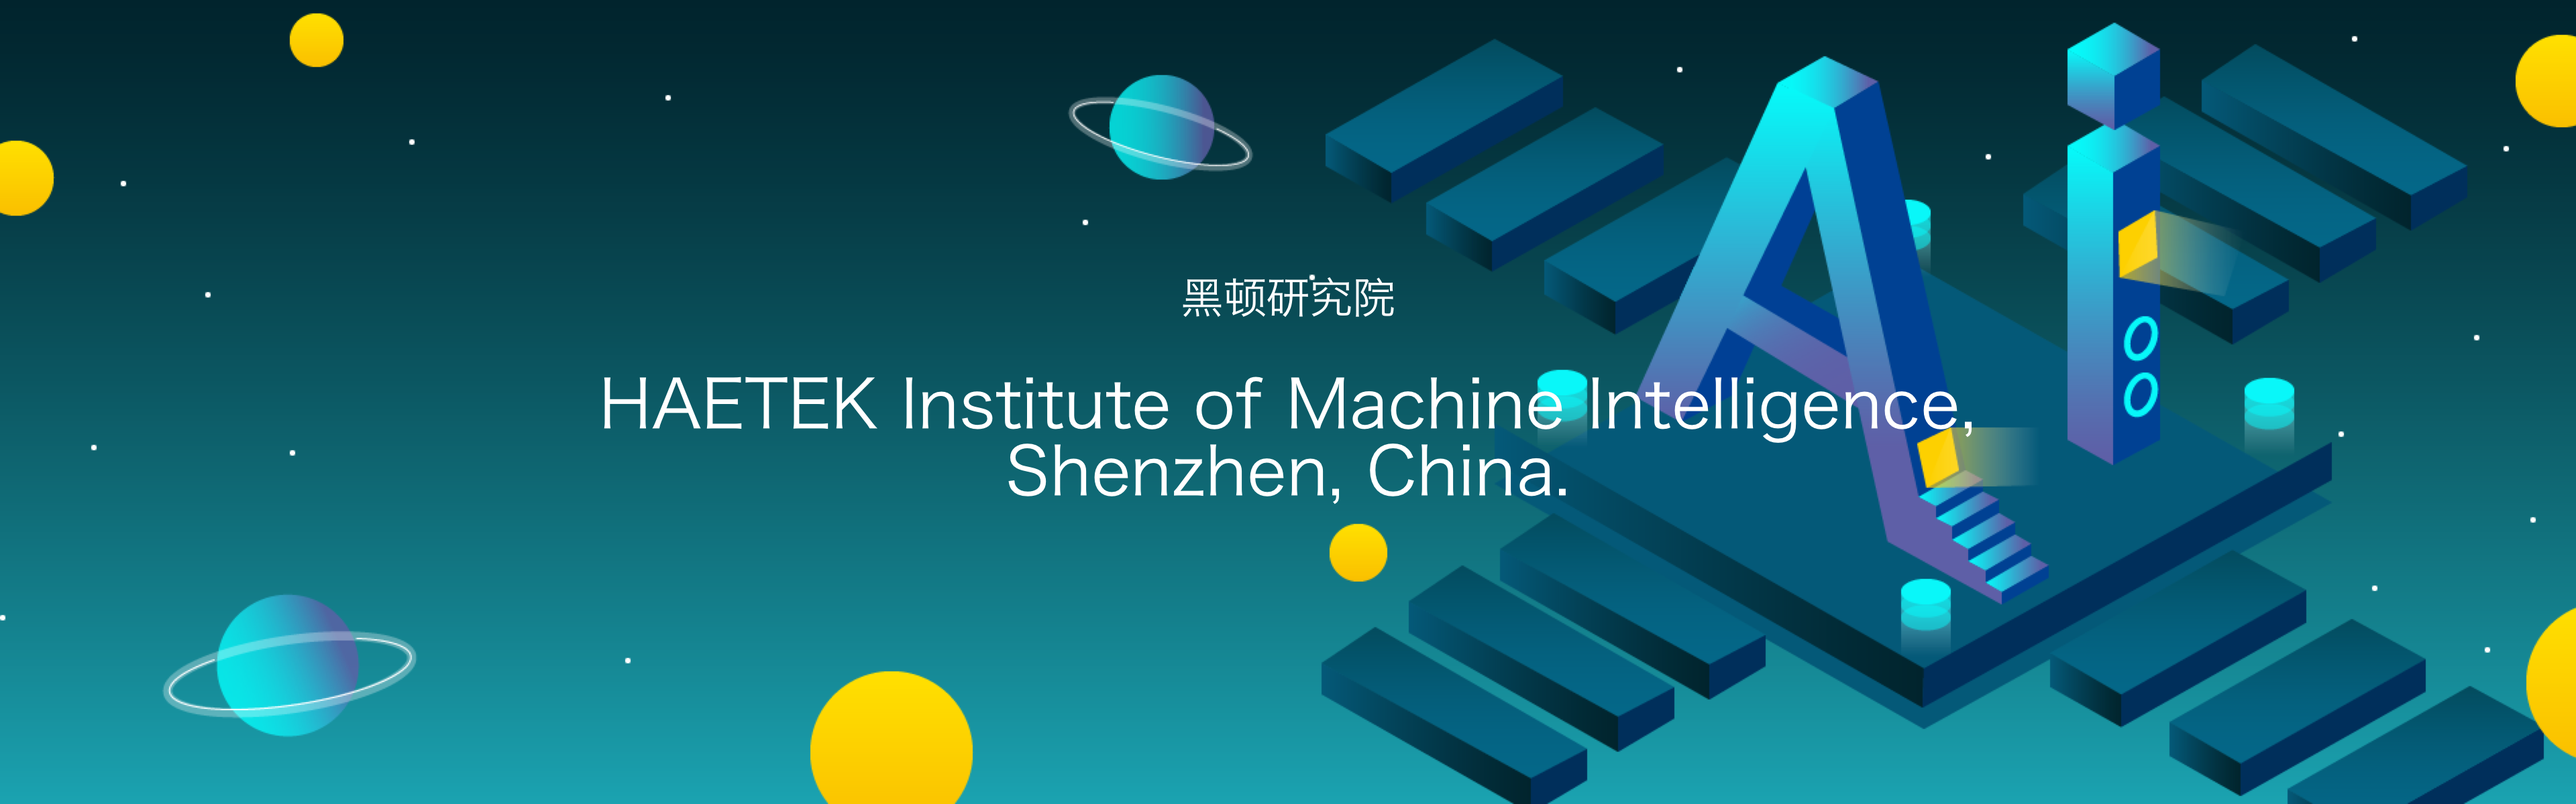
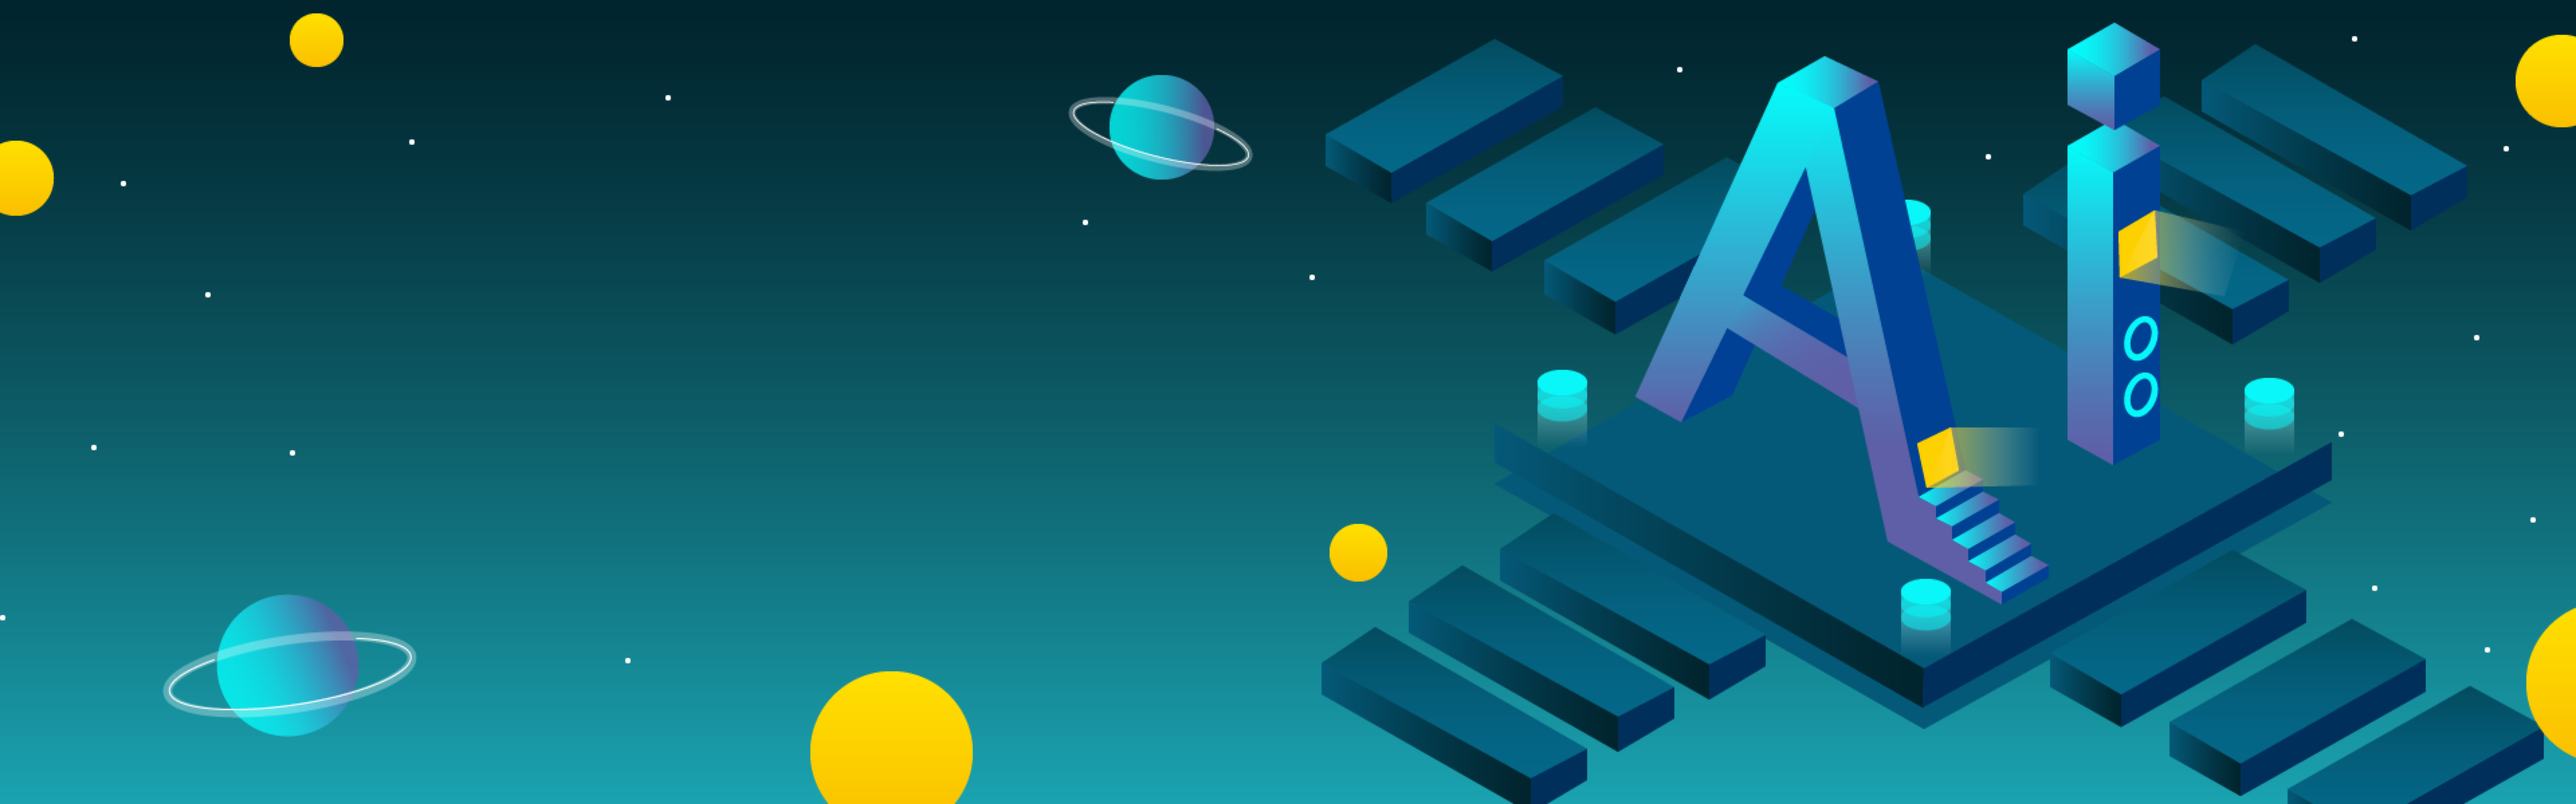
Modified: college page
1. add banner title
2. modified footer list
3. replace banner image
4. mofified background content

Changed region(s): [[0.2188, 0.4625, 0.7812, 0.6167], [0.4375, 0.3392, 0.5312, 0.4008]]

diff --git a/src/templates/college-page.js b/src/templates/college-page.js
@@ -5,8 +5,8 @@ import Layout from "../components/Layout";
 import StudyDirection from "../components/StudyDirection";
 
 const BackgroundInfo = ({ heading = "", bakPara = [] }) => (
-  <div className="columns">
-    <div className="column is-10 is-offset-1 has-text-centered">
+  <div className="columns is-centered">
+    <div className="column is-11 has-text-centered">
       <h3 className=" is-size-3">{heading}</h3>
       <br />
       <div className="is-size-6">
@@ -31,7 +31,21 @@ const CollegeTemplate = ({ image, background, direction }) => {
           })`,
           backgroundSize: "cover"
         }}
-      />
+      >
+        <div className="has-text-centered" style={{ lineHeight: 3 }}>
+          <h2 className="has-text-white is-size-3 is-size-4-mobile">
+            黑顿研究院
+          </h2>
+          <div style={{ lineHeight: 1, fontSize: "50px" }}>
+            <h1 className="has-text-white is-size-3-mobile">
+              HAETEK Institute of Machine Intelligence,
+            </h1>
+            <h1 className="has-text-white is-size-3-mobile">
+              Shenzhen, China.
+            </h1>
+          </div>
+        </div>
+      </div>
       <div className="section section--gradient has-background-white-ter">
         <div className="container">
           <div className="section">

diff --git a/src/components/Footer.js b/src/components/Footer.js
@@ -41,11 +41,6 @@ const Footer = class extends React.Component {
                             阿里云
                           </Link>
                         </li>
-                        <li>
-                          <Link className="h-navbar-item" to="/">
-                            腾讯云
-                          </Link>
-                        </li>
                       </ul>
                     </section>
                   </div>
